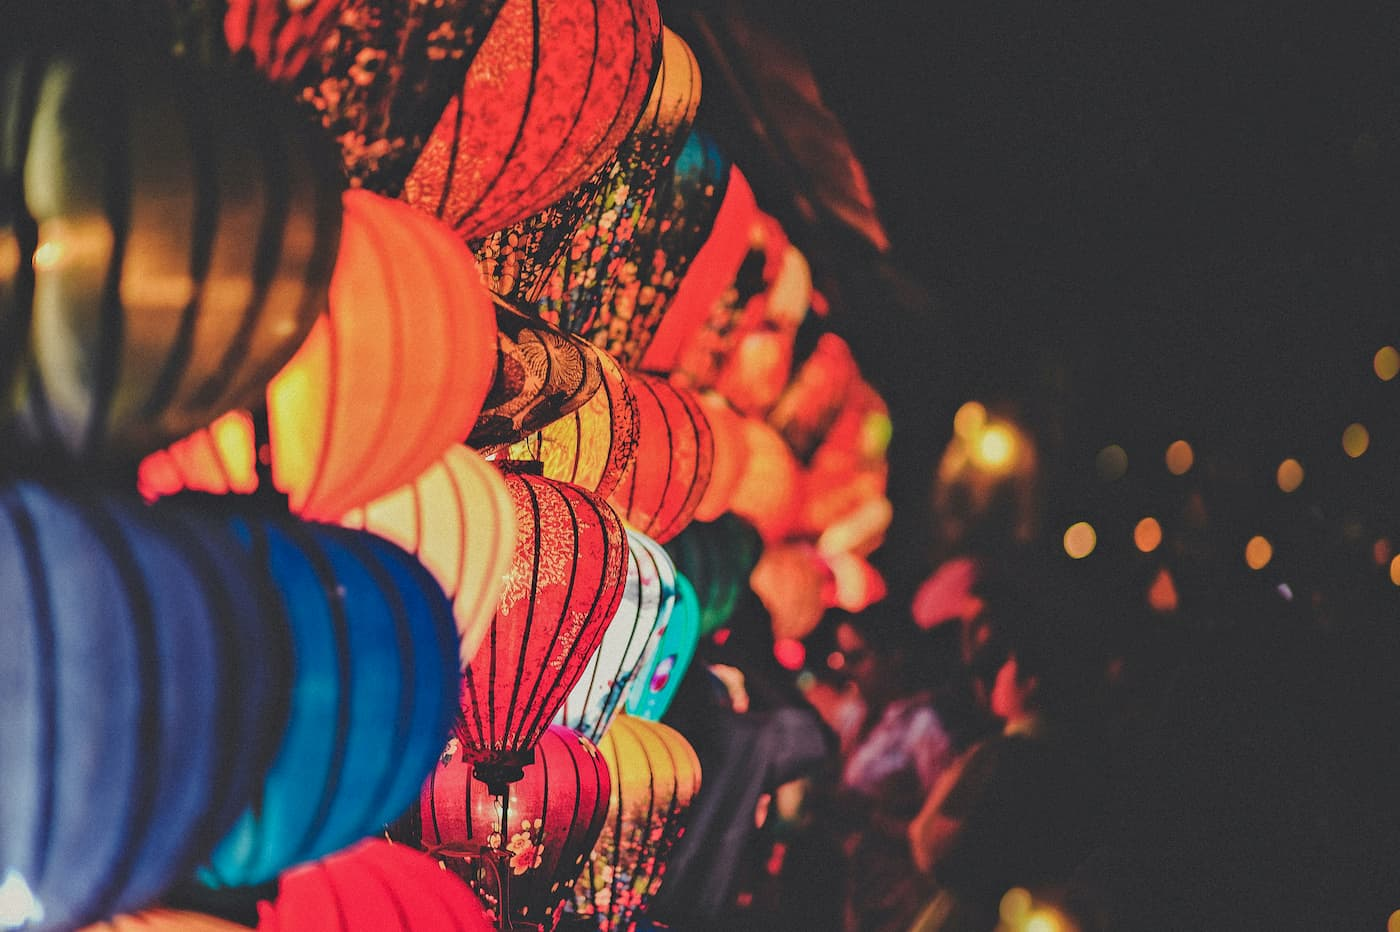
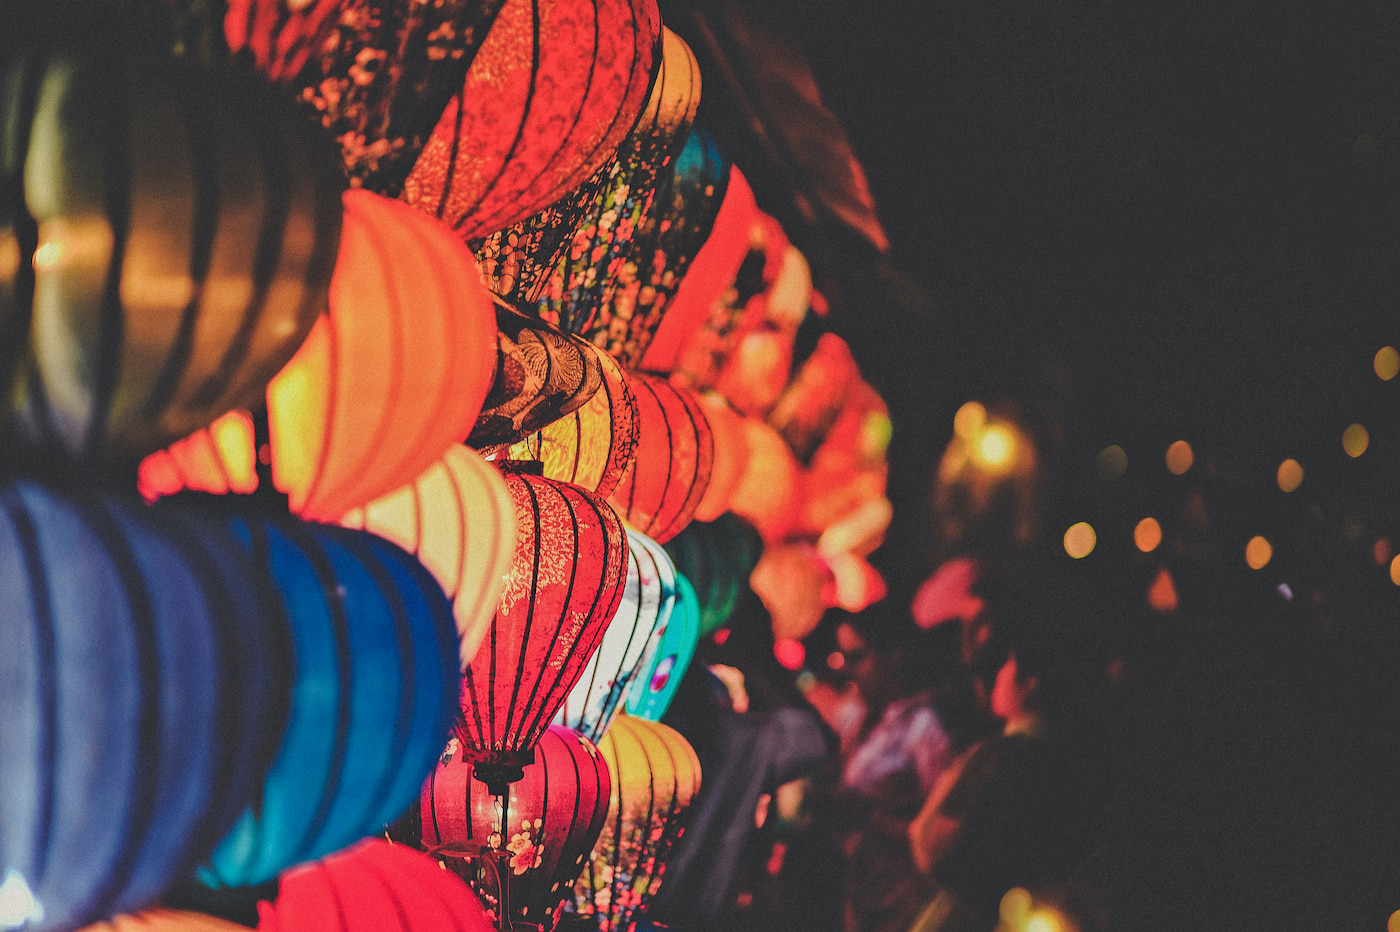
Improved jumbotron background image quality and position
- Improved image quality in jumbotron
- Changed background position to 70% 63%

diff --git a/css/styles.css b/css/styles.css
@@ -183,7 +183,7 @@ JUMBOTRON
   background-image: url("../images/bokeh_background.jpg");
   background-repeat: no-repeat;
   background-size: cover;
-  background-position: 70% 45%;
+  background-position: 70% 63%;
   text-align: center;
   color: white;
   height: 400px;
